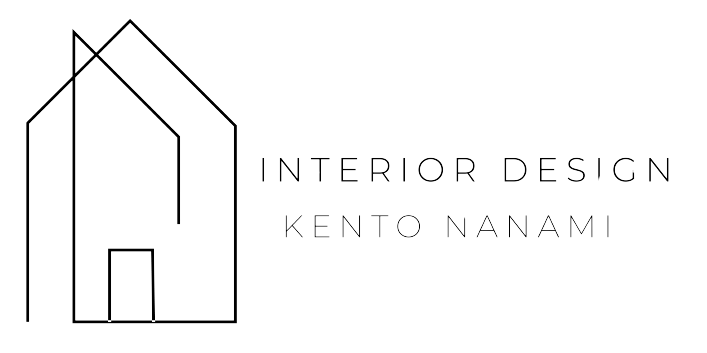
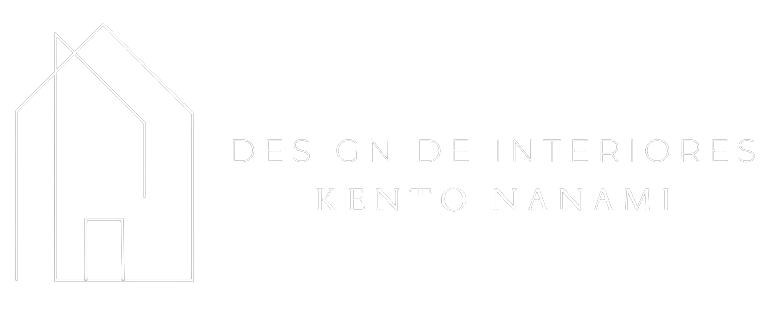
Add files via upload

diff --git a/blog.html b/blog.html
@@ -104,29 +104,25 @@
                         <div class="blog_left_sidebar">
                             <article class="blog_item">
                                 <div class="blog_item_img">
-                                    <img class="card-img rounded-0" src="assets/img/blog/single_blog_1.png" alt="">
-                                    <a href="#" class="blog_item_date">
-                                        <h3>15</h3>
-                                        <p>Jan</p>
-                                    </a>
+                                    <a href="https://vareja.netlify.app" target="_blank"><img class="card-img rounded-0" src="assets/img/blog/httpsvareja.netfliy.app.png.png" alt=""></a>
                                 </div>
 
                                 <div class="blog_details">
                                     <a class="d-inline-block" href="blog_details.html">
-                                        <h2 style="color: #2d2d2d;">Google inks pact for new 35-storey office</h2>
+                                        <h2 style="color: #2d2d2d;">Varejá</h2>
                                     </a>
-                                    <p>That dominion stars lights dominion divide years for fourth have don't stars is that
-                                        he earth it first without heaven in place seed it second morning saying.</p>
+                                    <p>
+                                        fgmnfnmgmfgefgnewjklfnfbgnkfnnrgmwegjfbnewgkerjgfgkqweegofje
+                                    </p>
                                     <ul class="blog-info-link">
-                                        <li><a href="#"><i class="fa fa-user"></i> Travel, Lifestyle</a></li>
-                                        <li><a href="#"><i class="fa fa-comments"></i> 03 Comments</a></li>
+                                        <li><a href="https://vareja.netlify.app" target="_blank"><i class="fa fa-user"></i> Davi França</a></li>
                                     </ul>
                                 </div>
                             </article>
 
                             <article class="blog_item">
                                 <div class="blog_item_img">
-                                    <img class="card-img rounded-0" src="assets/img/blog/single_blog_2.png" alt="">
+                                    <img class="card-img rounded-0" src="assets/img/blog/cauarocha.epizy.com.png">
                                     <a href="#" class="blog_item_date">
                                         <h3>15</h3>
                                         <p>Jan</p>

diff --git a/index.html b/index.html
@@ -43,7 +43,7 @@
                 <div class="menu-wrapper d-flex align-items-center justify-content-between">
                     <!-- Logo -->
                     <div class="logo">
-                        <a href="index.html"><img src="kentocopia.png" height="100px" alt=""></a>
+                        <a href="index.html"><img src="nanami.png" height="100px" alt=""></a>
                     </div>
                     <!-- Main-menu -->
                     <div class="main-menu f-right d-none d-lg-block">
@@ -53,13 +53,7 @@
                                 <li><a href="about.html">Sobre</a></li>
                                 <li><a href="services.html">Serviços</a></li>
                                 <li><a href="work.html">Galeria</a></li>
-                                <li><a href="blog.html">Blog</a>
-                                    <ul class="submenu">
-                                        <li><a href="blog.html">Blog</a></li>
-                                        <li><a href="blog_details.html">Blog Details</a></li>
-                                        <li><a href="elements.html">Elements</a></li>
-                                    </ul>
-                                </li>
+                                <li><a href="blog.html">Parceiros</p></a></li>
                                 <li><a href="contact.html">Contact</a></li>
                             </ul>
                         </nav>

diff --git a/contact_process.php b/contact_process.php
@@ -1,6 +1,6 @@
 <?php
 
-    $to = "rockybd1995@gmail.com";
+    $to = "daniellmendessx@gmail.com";
     $from = $_REQUEST['email'];
     $name = $_REQUEST['name'];
     $subject = $_REQUEST['subject'];
@@ -15,7 +15,7 @@
 
     $subject = "You have a message from your Bitmap Photography.";
 
-    $logo = 'img/logo.png';
+    $logo = 'img/kentodecorations.png';
     $link = '#';
 
 	$body = "<!DOCTYPE html><html lang='en'><head><meta charset='UTF-8'><title>Express Mail</title></head><body>";
